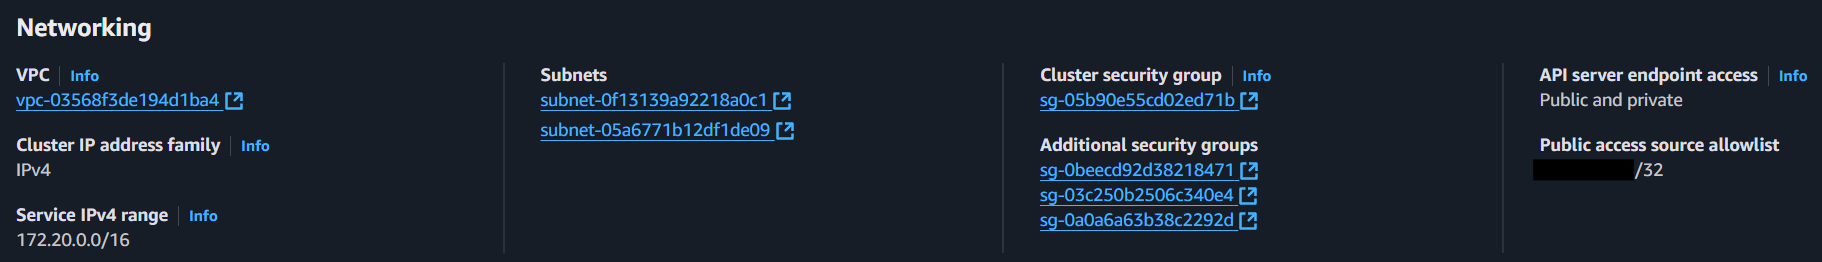
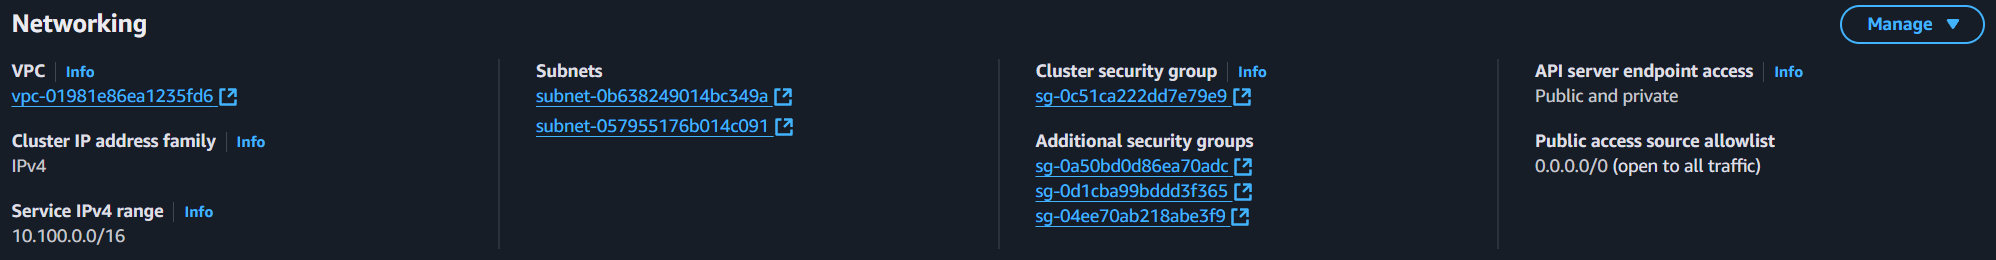
add ESO + update readme [ci skip]

diff --git a/README.md b/README.md
@@ -2,7 +2,7 @@
 
 Ce projet utilise GitHub Actions pour automatiser le déploiement d'une infrastructure via Terraform avec :
 
-- Cluster EKS complet via plusieurs modules
+- Cluster EKS complet avec plusieurs modules
 - ArgoCD avec boostrap d'applications
 
 ---
@@ -12,7 +12,9 @@ Ce projet utilise GitHub Actions pour automatiser le déploiement d'une infrastr
 - Terraform >= 1.12.0
 - AWS CLI configuré
 - Repo git dédié pour ArgoCD : `portfolio-ultime-config`
-- Bucket S3 backend : `portfolio-ultime-infra`
+- 2 Buckets S3 :
+
+portfolio-ultime-infra (backend dédié à terraform pour le state)
 
 ```bash
 aws s3api create-bucket \
@@ -21,19 +23,39 @@ aws s3api create-bucket \
   --create-bucket-configuration LocationConstraint=eu-west-3
 ```
 
-> _Pour supprimer le bucket S3 : `aws s3 rb s3://portfolio-ultime-infra --force`_
+portfolio-ultime-securecodebox (résultats des scans DAST)
 
-- Définir les secrets du repo
+```bash
+aws s3api create-bucket \
+  --bucket portfolio-ultime-securecodebox \
+  --region eu-west-3 \
+  --create-bucket-configuration LocationConstraint=eu-west-3
+```
+
+- Secret AWS pour autoriser à lire les packages ghcr.io
+
+```bash
+aws secretsmanager create-secret \
+  --name "ghcr-token" \
+  --description "Token Github avec permissions read packages" \
+  --secret-string "GITHUB_TOKEN"
+```
+
+> _Pour supprimer un bucket S3 : `aws s3 rb s3://BUCKET_NAME --force`_
+
+> _Pour supprimer un secret AWS : `aws secretsmanager delete-secret --secret-id SECRET_NAME --force-delete-without-recovery --region eu-west-3`_
+
+- Secrets d'environnement GitHub :
 
 | Secret                  | Description     |
 | ----------------------- | --------------- |
 | `AWS_ACCESS_KEY_ID`     | Clé d'accès AWS |
 | `AWS_SECRET_ACCESS_KEY` | Clé secrète AWS |
 
-Terraform
-
-- `allowed_ips` : Adresse IP personnelle en /32
-- `external_dns_hosted_zone_arns` : Hosted Zone ID (Route53)
+- Terraform :
+  - `allowed_ips` : Adresse IP personnelle en /32 (0.0.0.0/0 par défaut)
+  - `external_dns_hosted_zone_arns` : Hosted Zone ID (Route53)
+  - `external_secrets_secrets_manager_arns` : ARN du secret "ghcr-token" (Secret Manager)
 
 ---
 
@@ -44,12 +66,13 @@ portfolio-ultime-infra/
 ├── .github/workflows/
 │   └── terraform.yml           # Pipeline CI/CD
 ├── terraform/
-│   ├── eks.tf                  # Configuration EKS
-│   ├── helm-charts.tf          # Charts Helm
-│   ├── pod-identity.tf         # Pod Identity
-│   ├── providers.tf            # Providers Terraform
+│   ├── eks.tf                  # Cluster EKS
+│   ├── helm-charts.tf          # Charts Helm pour boostrap d'ArgoCD
+│   ├── pod-identity.tf         # Pod Identity pour gestion des policies
+│   ├── providers.tf            # Providers et configuration backend
+│   ├── storage-class.tf        # StorageClass gp3
 │   ├── variables.tf            # Variables
-│   ├── vpc.tf                  # Configuration VPC
+│   ├── vpc.tf                  # Configuration VPC + security groups
 └── README.md
 ```
 
@@ -71,12 +94,12 @@ Bucket S3 `portfolio-ultime-infra` avec `use_lockfile = true` (plus besoin de Dy
 
 ## Infrastructure réseau (modules terraform-aws-vpc et terraform-aws-security-group)
 
-- VPC (10.0.0.0/16) avec support DNS : Emplacement logique pour créer les réseaux
-  ├── Subnets privés: 10.0.0.0/19, 10.0.32.0/19
-  ├── Subnets publics: 10.0.64.0/19, 10.0.96.0/19
-  └── Pods: gérés par VPC CNI dans les subnets
-
-> _Subnets multi-AZ (eu-west-3a et 3b)_
+```bash
+VPC (10.0.0.0/16) avec support DNS
+├── Subnets privés: 10.0.0.0/19, 10.0.32.0/19 # multi-AZ (eu-west-3a et 3b)
+├── Subnets publics: 10.0.64.0/19, 10.0.96.0/19 # multi-AZ (eu-west-3a et 3b)
+└── Pods: gérés par VPC CNI dans les subnets
+```
 
 - Services K8S: 10.100.0.0/16
 - NAT Gateway et Internet Gateway (création automatique via enable_nat_gateway)
@@ -110,9 +133,9 @@ aws eks describe-addon-configuration --addon-name kube-proxy --addon-version v1.
 
 ## EKS Pod Identity (module terraform-aws-eks-pod-identity)
 
-Fonctionnement : Mapping IAM ↔ Pod via un agent natif pour l'accès aux services AWS depuis un pod (remplacement moderne de IRSA, plus besoin de gérer l'OIDC / trust policy)
+Fonctionnement : Mapping IAM ↔ Pod via un agent natif pour l'accès aux services AWS depuis un pod (remplacement moderne de IRSA, plus besoin de gérer OIDC / trust policy)
 
-> _Le ServiceAccount sera la cible de l’association IAM via le module pod-identity — pas besoin d’annotation via EKS Pod Identity._
+> _Le ServiceAccount sera la cible de l’association IAM via le module pod-identity — pas besoin d’annotation lorsqu'on utilise EKS Pod Identity._
 
 > _Note: L'association Pod Identity peut être créée AVANT le ServiceAccount, ce qui facilite l'automatisation. voir [doc](https://docs.aws.amazon.com/eks/latest/userguide/pod-id-association.html)_
 
@@ -121,6 +144,8 @@ Fonctionnement : Mapping IAM ↔ Pod via un agent natif pour l'accès aux ser
 - External DNS
 - Cert Manager
 - Cert Manager Sync
+- SecureCodeBox
+- External Secret
 
 ![Pod Identity](images/pod-identity.png)
 
@@ -148,6 +173,7 @@ Internet → ALB (L7) → Target groups (pod IPs) → Réseau VPC / Node ENI →
 
 - Repo git de configuration dédié : `portfolio-ultime-config`
 - Multi-sources utilisés dans les apps ArgoCD afin de référencer des values locales pour une chart helm distante
+
   > _Il faut éviter d'utiliser multi-sources pour d'autres cas de figure_
 
 ## Déploiement
@@ -259,7 +285,7 @@ Values :
 
 > _Nécessite un environnement dédié aux tests pour du scanning actif_
 
-> Documentation : [Auto-Discovery](https://www.securecodebox.io/docs/auto-discovery/service-auto-discovery/) / [default values](https://github.com/secureCodeBox/secureCodeBox/blob/main/auto-discovery/kubernetes/README.md)
+> _Documentation : [Auto-Discovery](https://www.securecodebox.io/docs/auto-discovery/service-auto-discovery/) / [default values](https://github.com/secureCodeBox/secureCodeBox/blob/main/auto-discovery/kubernetes/README.md)_
 
 ### Test d'un scan manuel
 
@@ -294,6 +320,23 @@ spec:
 ### Résultat d'un rapport (Scanning DAST passif)
 
 ![DAST Report](images/dast-report.png)
+
+## External Secret Operator (ESO)
+
+ESO permet de garder les secrets en dehors de git. L'opérateur surveille en continu les secrets afin de les synchroniser sur Kubernetes.
+
+Fonctionnement :
+
+- Récupère les secrets depuis un store (ex: AWS Secret Manager)
+- Les convertit en secrets Kubernetes standard
+
+![ESO](images/eso.png)
+
+Dans ce projet, le secret nécessaire se nomme `ghcr-token`. Il permet de récupérer les packages ghcr.io (Helm + Image Docker)
+
+![External Secrets](images/externalsecrets.png)
+
+> _Note: Statut OutOfSync dans ArgoCD dû au paramètre refreshInterval, mais les secrets sont bien présents et fonctionnels_
 
 ---
 
@@ -330,7 +373,6 @@ spec:
     - Securecodebox (DAST) :
       - Hooks pour extraire les résultats (findings) et les envoyer vers des systèmes externes (DefectDojo, Slack, Email, Dashboards grafana, Lambda, jobs CI...)
       - Scanning actif avec envs éphémères
-    - ESO : Utiliser ESO au lieu de créer les secrets via terraform
 
 - EKS Production ready :
 
